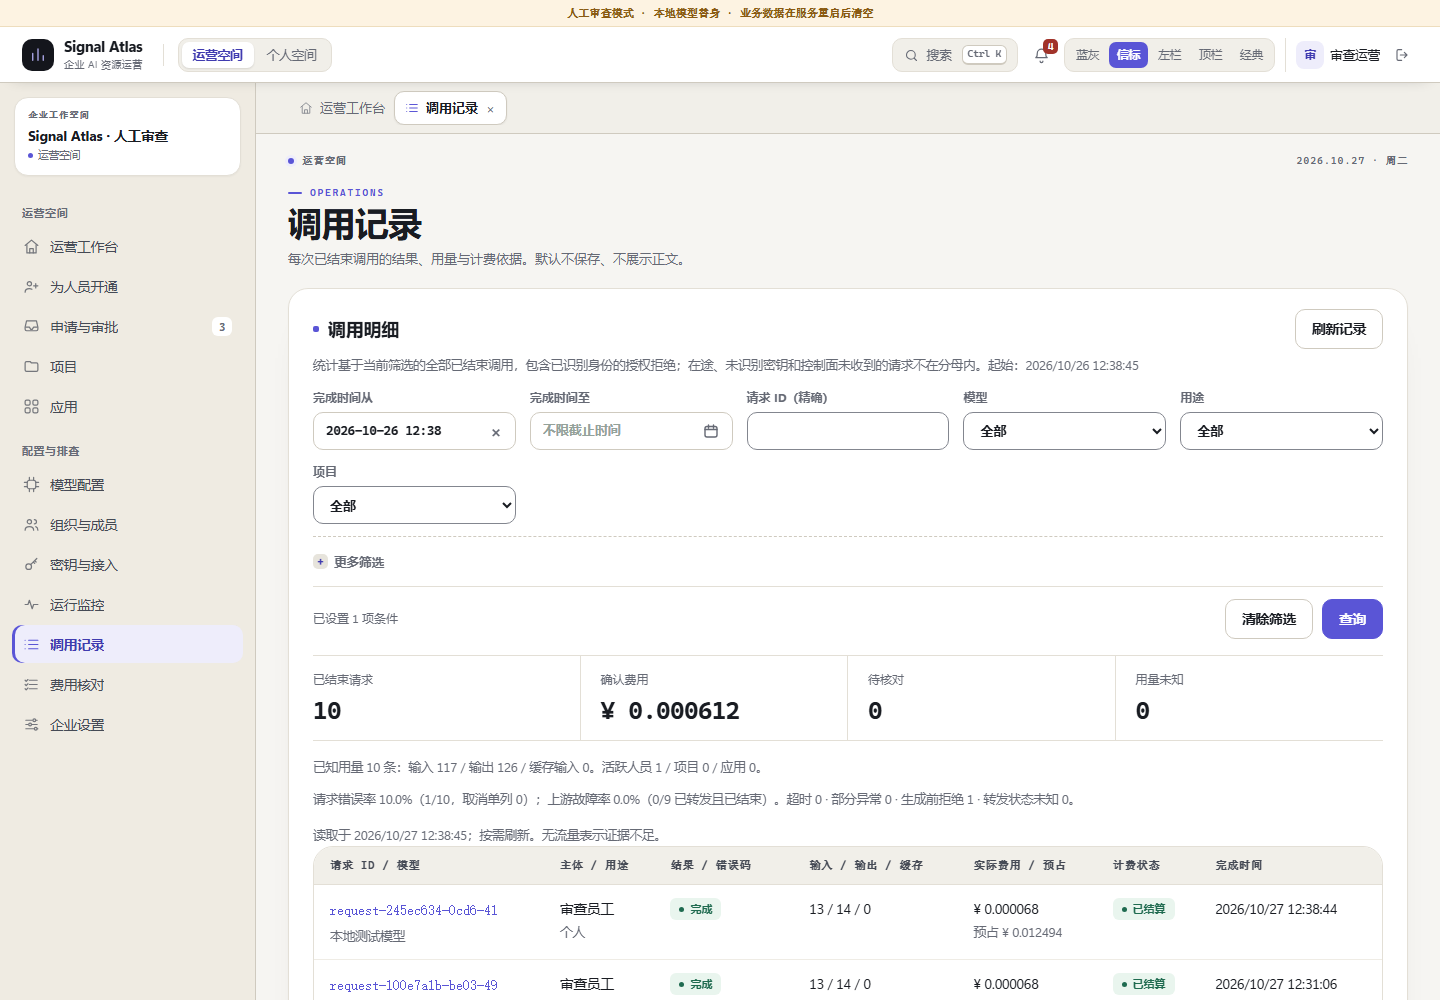
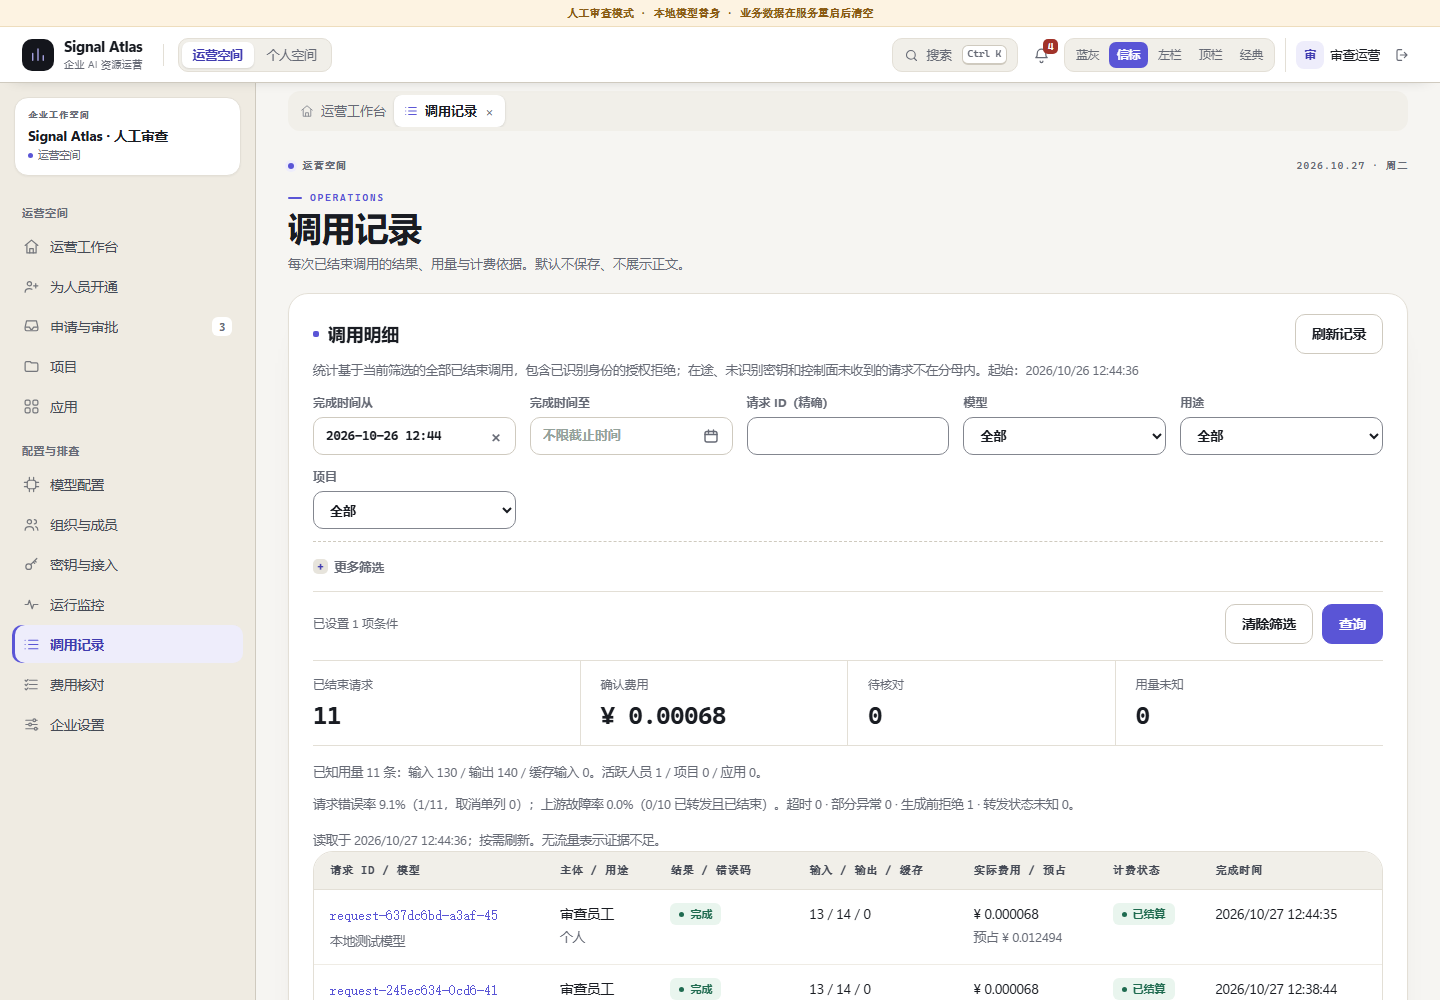
style(web): align the beacon page tabs with Feishu's tab strip
Two problems with the previous card version: the grey band was painted across
the whole grid column, so at 1440+ it ran ~160px wider than the 1320px content
column and left a stray band on the right; and a full-width rule cut the strip
in two.

- the strip is now a rounded --surface2 card that matches the content column
  (same max-width, same 32/16px gutters), so its edges line up with the panels
- drop the tabbar border: the card already bounds the strip
- active tab is a borderless white card with a soft shadow (Feishu style), ink
  text and the accent icon; inactive tabs stay transparent grey text
- tabs 32px inside a 40px card (56px with gutters)

Re-verified: typecheck, build, 82 browser assertions, 110 page/width overflow
combinations; screenshots re-shot.

diff --git a/apps/web/src/design-v5.css b/apps/web/src/design-v5.css
@@ -402,18 +402,27 @@ html[data-ui="beacon"] .v4-sidebar-footer { display: none; margin-top: auto; pad
 html[data-ui="beacon"] .v4-side-note { display: block; margin: 0 2px 10px; color: var(--azure-faint); font-size: 10.5px; line-height: 1.5; }
 
 /* ---------- page tabs ---------- */
-/* 页面标签是“已打开的页面”，语义上接近浏览器 / VS Code 的标签，而不是视图切换。
-   所以用成熟形态：暖灰条 + 浮起的白卡片（活动）+ 沉下的透明标签（非活动），
-   关闭按钮只在活动项、hover 与键盘焦点下常显。 */
+/* 页面标签是“已打开的页面”，语义上接近飞书 / 浏览器的多标签，而不是视图切换。
+   形态对齐飞书：与内容区**同宽**的浅灰标签条（不再铺满全宽）、白色活动标签无描边、
+   靠底色与轻阴影浮起，关闭按钮只在活动项 / hover / 焦点出现。 */
 html[data-ui="beacon"] .v4-tabbar {
   position: sticky;
   top: var(--azure-topbar);
   z-index: 25;
-  background: var(--surface2);
-  border-bottom: 1px solid var(--line-strong);
-  padding: 8px 0;
+  background: var(--bg);
+  padding: 8px var(--v2-pad);
 }
-html[data-ui="beacon"] .v4-tabbar-inner { display: flex; align-items: center; width: 100%; max-width: 1320px; margin: 0 auto; padding: 0 var(--v2-pad); min-height: 34px; }
+html[data-ui="beacon"] .v4-tabbar-inner {
+  display: flex;
+  align-items: center;
+  width: 100%;
+  max-width: 1320px;
+  margin: 0 auto;
+  padding: 4px 2px;
+  min-height: 40px;
+  background: var(--surface2);
+  border-radius: 12px;
+}
 html[data-ui="beacon"] .v4-tabs {
   display: flex;
   align-items: center;
@@ -429,27 +438,26 @@ html[data-ui="beacon"] .v4-tab {
   display: flex;
   align-items: center;
   flex: none;
-  height: 34px;
-  border: 1px solid transparent;
-  border-radius: 10px;
+  height: 32px;
+  border: 0;
+  border-radius: 8px;
   background: transparent;
-  transition: background 120ms var(--beacon-ease), border-color 120ms var(--beacon-ease), box-shadow 120ms var(--beacon-ease);
+  transition: background 120ms var(--beacon-ease), box-shadow 120ms var(--beacon-ease);
 }
-html[data-ui="beacon"] .v4-tab:hover { background: rgba(255, 255, 255, .74); border-color: var(--line); }
+html[data-ui="beacon"] .v4-tab:hover { background: rgba(255, 255, 255, .68); }
 html[data-ui="beacon"] .v4-tab.active {
   background: var(--surface);
-  border-color: var(--line-strong);
-  box-shadow: 0 1px 2px rgba(25, 28, 34, .07);
+  box-shadow: 0 1px 3px rgba(25, 28, 34, .1), 0 0 0 .5px rgba(25, 28, 34, .04);
 }
 html[data-ui="beacon"] .v4-tab.active::after { content: none; }
 html[data-ui="beacon"] .v4-tab-select {
   display: inline-flex;
   align-items: center;
   gap: 7px;
-  height: 32px;
+  height: 30px;
   padding: 0 4px 0 10px;
   border: 0;
-  border-radius: 9px;
+  border-radius: 8px;
   background: transparent;
   color: var(--muted);
   font-size: 13px;
@@ -1340,8 +1348,8 @@ html[data-ui="beacon"] kbd { border-radius: 6px; }
 }
 
 @media (pointer: coarse) {
-  html[data-ui="beacon"] .v4-tab { height: 38px; }
-  html[data-ui="beacon"] .v4-tab-select { height: 36px; }
+  html[data-ui="beacon"] .v4-tab { height: 36px; }
+  html[data-ui="beacon"] .v4-tab-select { height: 34px; }
   html[data-ui="beacon"] .v4-tab-close { width: 26px; height: 26px; opacity: 1; }
   html[data-ui="beacon"] .v4-nav-item { min-height: var(--touch-min-height); }
   html[data-ui="beacon"] .primary,

diff --git a/docs/product/signal-atlas-v5-beacon-review.md b/docs/product/signal-atlas-v5-beacon-review.md
@@ -78,7 +78,7 @@
 - 面板圆角 20px、内边距 20–24px、投影 `0 1px 2px rgba(25,28,34,.04), 0 20px 40px -36px rgba(25,28,34,.42)`。
 - 标签圆角 6px；表格卡片 20px；hero 卡 26px；弹窗 20px。
 - 余额大数字 48px / 650（≤760px 降为 40px）；统计条仍为 25px，表格 13.5px。
-- 顶栏 56px（窄屏 52px）、页面标签条 50px（标签 34px）、左栏 256px（≤1180px 收窄到 232px、≤900px 收进抽屉）、页面内边距 32px —— 均沿用 v4 几何，避免第五套界面改变操作习惯。
+- 顶栏 56px（窄屏 52px）、页面标签条 56px（灰卡 40px / 标签 32px）、左栏 256px（≤1180px 收窄到 232px、≤900px 收进抽屉）、页面内边距 32px —— 均沿用 v4 几何，避免第五套界面改变操作习惯。
 
 ## 4. 壳层
 
@@ -116,10 +116,11 @@
 
 ### 4.3 页面标签
 
-- 这些是「已打开的页面」而不是视图切换，语义上接近浏览器 / VS Code 的标签，所以采用成熟形态：`--surface2` 暖灰条带（底部 1px `--line-strong`）+ **浮起的白卡片**，而不是下划线或白胶囊。
-- 活动标签：`--surface` 白底 + `--line-strong` 描边 + 轻阴影 + 深墨字 + 紫色页面图标；非活动标签透明底灰字（`#666a75` 在 `#f1efe9` 上 4.71），hover 变白。
-- 关闭按钮只在活动标签、hover 与键盘焦点下出现（VS Code 行为）；非活动标签不挂 ×，避免一排叉号成为噪音（仍在 DOM 中且可键盘聚焦，聚焦时恢复可见）。
-- 标签高 34px（条带 50px）；≤760px 横向滚动；触屏（`pointer: coarse`）下 38px 且 × 常显。
+- 这些是「已打开的页面」而不是视图切换，语义上接近飞书的多标签，所以形态对齐飞书：与内容区**同宽的圆角浅灰标签条**（12px 圆角，`--surface2`），不再铺满整宽——铺满时暖灰背景会比 1320px 的内容区宽出一截，右侧多出一条灰带。
+- 活动标签：`--surface` 白底 + 无描边 + 轻阴影（`0 1px 3px`）+ 深墨字 + 紫色页面图标；非活动标签透明底灰字（`#666a75` 在 `#f1efe9` 上 4.71），hover 变白。
+- 标签条与内容区之间不加分隔线：灰卡自身已界定区域，多一条通宽横线会把标签条切成两截（飞书也没有）。
+- 关闭按钮只在活动标签、hover 与键盘焦点下出现（飞书 / VS Code 行为）；非活动标签不挂 ×，避免一排叉号成为噪音（仍在 DOM 中且可键盘聚焦，聚焦时恢复可见）。
+- 标签高 32px（条带 40px，含外边距共 56px）；≤760px 横向滚动；触屏（`pointer: coarse`）下 36px 且 × 常显。
 - 同一页面只保留一个标签；空间默认页固定且不可关闭。
 - 会话内保持挂载：切换标签只改显隐，不重置筛选、步骤、草稿和滚动位置。
 
